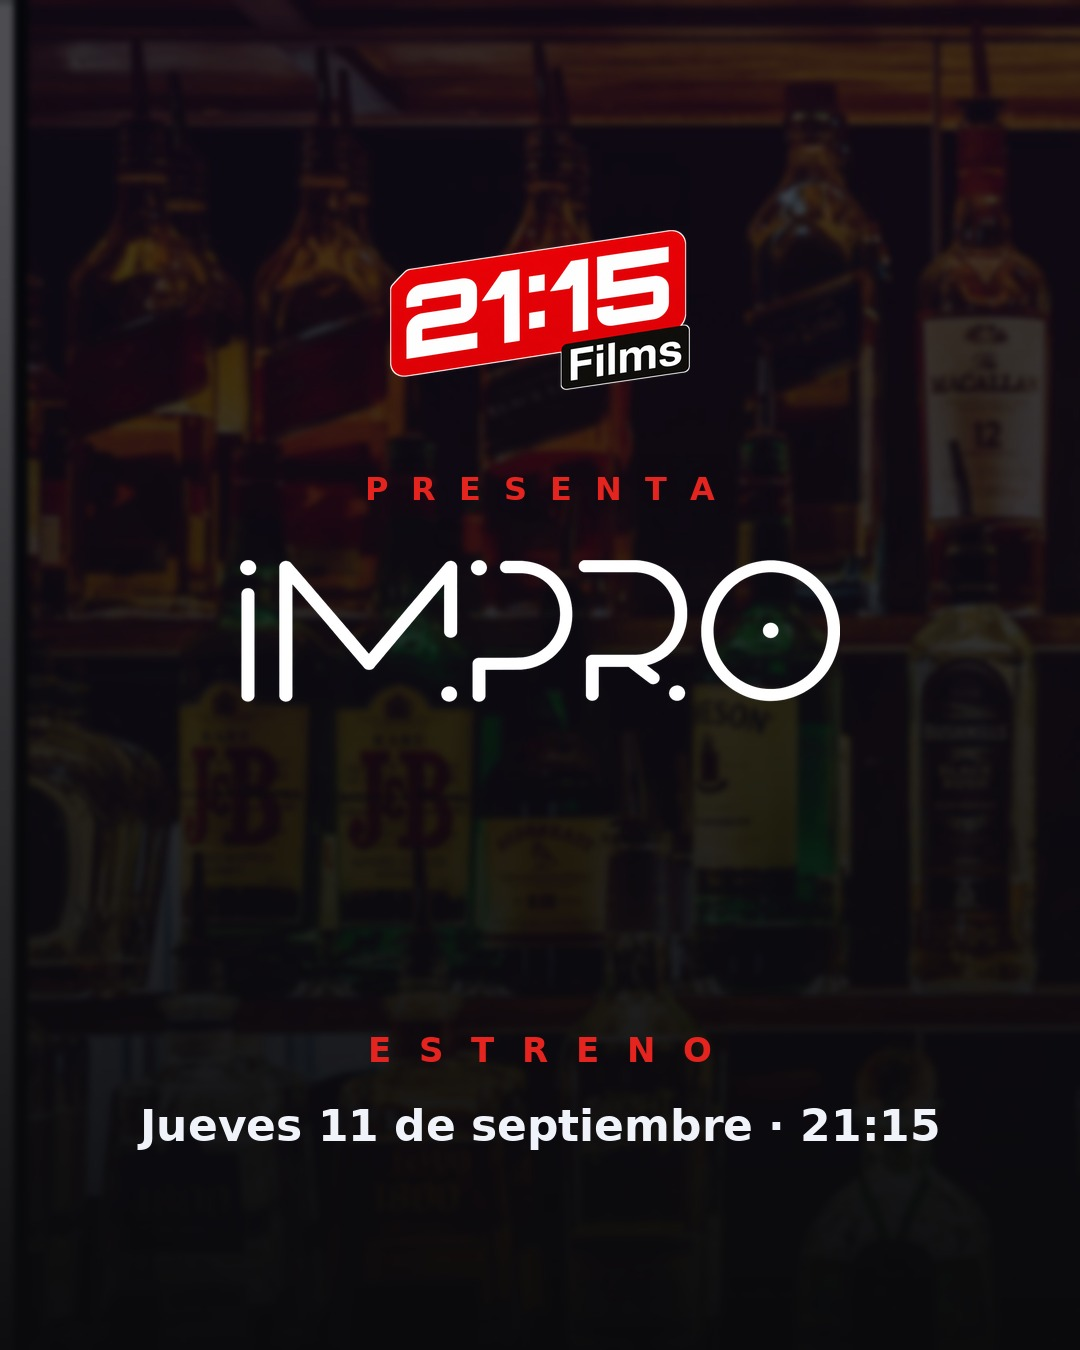
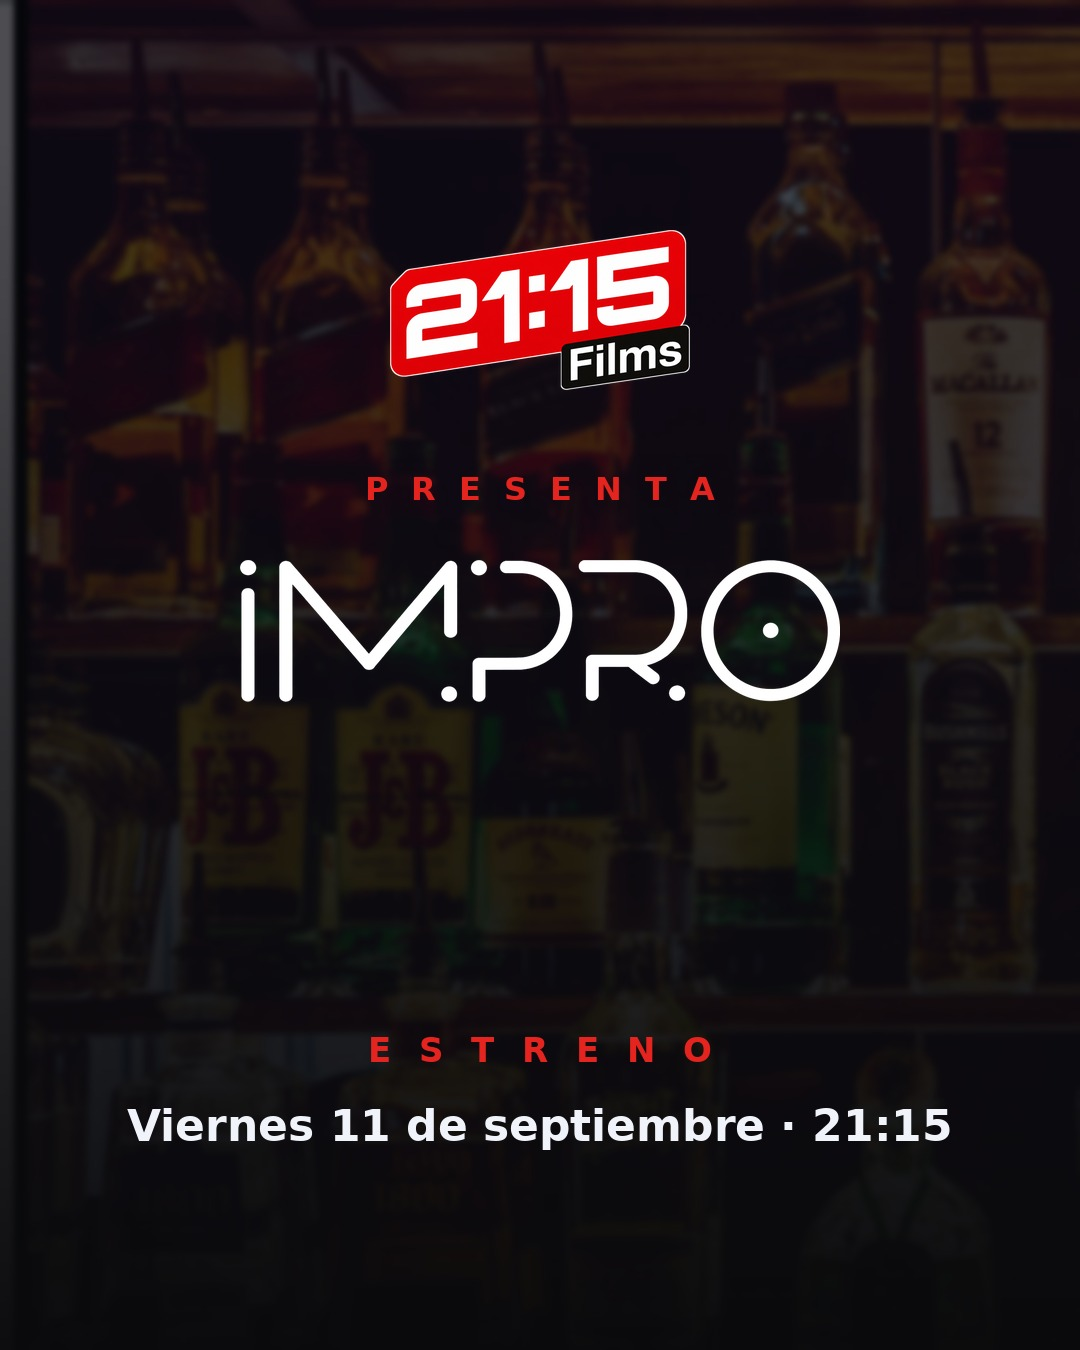
Corregir fecha: 11 de septiembre es viernes (no jueves) en placas, copys, plan y convocatoria
Claude-Session: https://claude.ai/code/session_01UVmXQvJvFHVm5DJrwuBNEc

Changed region(s): [[0.1222, 0.8089, 0.8861, 0.8711]]

diff --git a/docs/impro/posts-lanzamiento/estreno-11sep/build.py b/docs/impro/posts-lanzamiento/estreno-11sep/build.py
@@ -53,7 +53,7 @@ def e1():
     rule(d,0,0,W,MINT,10)
     lg=scaled(IMPRO,660); im.paste(lg,((W-lg.width)//2,250),lg); d=ImageDraw.Draw(im)
     track(d,(W//2,640),"E S T R E N O",f(FB,40),MINT,10,"ma")
-    d.text((W//2,720),"Jueves 11 de septiembre",font=f(FB,54),fill=INK,anchor="ma")
+    d.text((W//2,720),"Viernes 11 de septiembre",font=f(FB,54),fill=INK,anchor="ma")
     d.text((W//2,H-300),HORA,font=f(FM,150),fill=INK,anchor="ma")
     track(d,(W//2,H-120),"L A   S E R I E   Q U E   S E   F I L M A   E N   B A R E S",f(FR,24),BODY,3,"ma")
     save(im,"es-1-estreno.jpg")
@@ -110,7 +110,7 @@ def f1():
     track(d,(W//2,470),"P R E S E N T A",f(FB,32),RED,6,"ma")
     lg=scaled(IMPROWM,600); im.paste(lg,((W-lg.width)//2,560),lg); d=ImageDraw.Draw(im)
     track(d,(W//2,H-320),"E S T R E N O",f(FB,34),RED,8,"ma")
-    d.text((W//2,H-250),"Jueves 11 de septiembre · 21:15",font=f(FB,44),fill=INK,anchor="ma")
+    d.text((W//2,H-250),"Viernes 11 de septiembre · 21:15",font=f(FB,44),fill=INK,anchor="ma")
     save(im,"films-1-presenta.jpg")
 def f2():
     im=Image.new("RGB",(W,H),NBG); d=ImageDraw.Draw(im)
@@ -149,7 +149,7 @@ def es_hist():
     rule(d,0,0,SW,MINT,12)
     lg=scaled(IMPRO,620); im.paste(lg,((SW-lg.width)//2,300),lg); d=ImageDraw.Draw(im)
     track(d,(SW//2,720),"E S T R E N O",f(FB,40),MINT,10,"ma")
-    d.text((SW//2,800),"Jue 11 de septiembre",font=f(FB,60),fill=INK,anchor="ma")
+    d.text((SW//2,800),"Vie 11 de septiembre",font=f(FB,60),fill=INK,anchor="ma")
     d.text((SW//2,SH//2+120),HORA,font=f(FM,180),fill=INK,anchor="mm")
     d.text((SW//2,SH-460),"Reservá tu función",font=f(FB,52),fill=INK,anchor="ma")
     d.text((SW//2,SH-390),"Funciones desde $25.000 · tapeo incluido",font=f(FR,34),fill=BODY,anchor="ma")
@@ -165,7 +165,7 @@ def films_hist():
     track(d,(SW//2,760),"P R E S E N T A",f(FB,34),RED,6,"ma")
     lg=scaled(IMPROWM,560); im.paste(lg,((SW-lg.width)//2,860),lg); d=ImageDraw.Draw(im)
     d.text((SW//2,SH-560),"Estreno",font=f(FB,60),fill=INK,anchor="ma")
-    d.text((SW//2,SH-480),"Jue 11 de septiembre · 21:15",font=f(FB,48),fill=INK,anchor="ma")
+    d.text((SW//2,SH-480),"Vie 11 de septiembre · 21:15",font=f(FB,48),fill=INK,anchor="ma")
     track(d,(SW//2,SH-320),"C O N V O C A T O R I A   →   @ E S . I M P R O",f(FR,32),NBODY,3,"ma")
     save(im,"films-historia.jpg")
 

diff --git a/docs/impro/posts-lanzamiento/estreno-11sep/copys.md b/docs/impro/posts-lanzamiento/estreno-11sep/copys.md
@@ -20,7 +20,7 @@ el precio y la reserva quedan en la landing (link en bio) y, suave, en una sola 
 > Cada día, un capítulo nuevo. Vos mirás, votás las mejores interpretaciones y los que ganan vuelven
 > a actuar. La serie la hacemos entre todos.
 >
-> Estreno: jueves 11 de septiembre, 21:15.
+> Estreno: viernes 11 de septiembre, 21:15.
 >
 > Y sí — podés estar adentro. Reservás tu función, actuás tu escena y te llevás tu capítulo.
 > Toda la info en el link de la bio.
@@ -54,7 +54,7 @@ el precio y la reserva quedan en la landing (link en bio) y, suave, en una sola 
 > Una serie web interactiva filmada en bares reales de Zona Oeste. Cine espontáneo, hecho con la
 > gente, con un capítulo nuevo cada día a las 21:15.
 >
-> Estreno: jueves 11 de septiembre.
+> Estreno: viernes 11 de septiembre.
 >
 > Esto es lo que venimos construyendo: una forma nueva de hacer y mirar audiovisual. Y recién empieza.
 >

diff --git a/docs/impro/plan-contenido-semana1.md b/docs/impro/plan-contenido-semana1.md
@@ -84,7 +84,7 @@ Todavía no explicás todo. Mostrás que se viene algo, que hay movimiento, que 
 - **Formato:** recopilación rápida de los mejores 6 clips de la semana + fecha grande, 10 seg.
 - **Gancho:** "Falta menos de lo que pensás."
 - **Texto:** "11 de septiembre · 21:15."
-- **Epígrafe:** "El jueves 11 empieza IMPRO. Un capítulo nuevo cada día, 21:15. Activá el recordatorio. #IMPRO"
+- **Epígrafe:** "El viernes 11 empieza IMPRO. Un capítulo nuevo cada día, 21:15. Activá el recordatorio. #IMPRO"
 - **Historia:** sticker de cuenta regresiva de Instagram con fecha 11/09 21:15.
 
 ---
